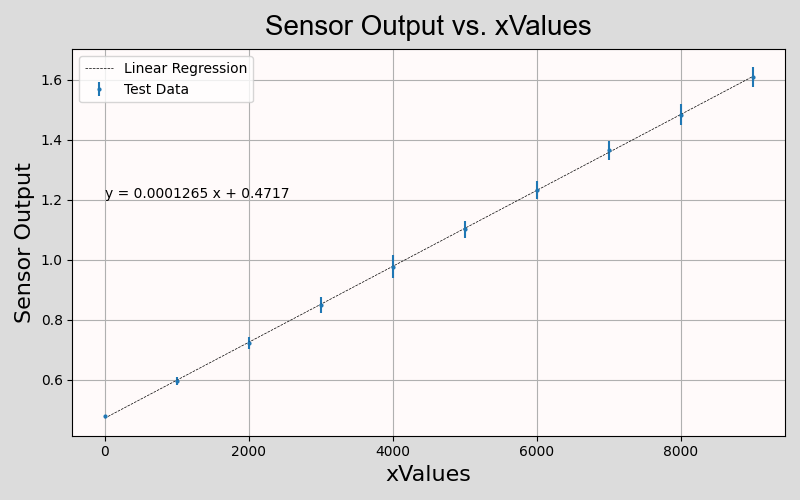
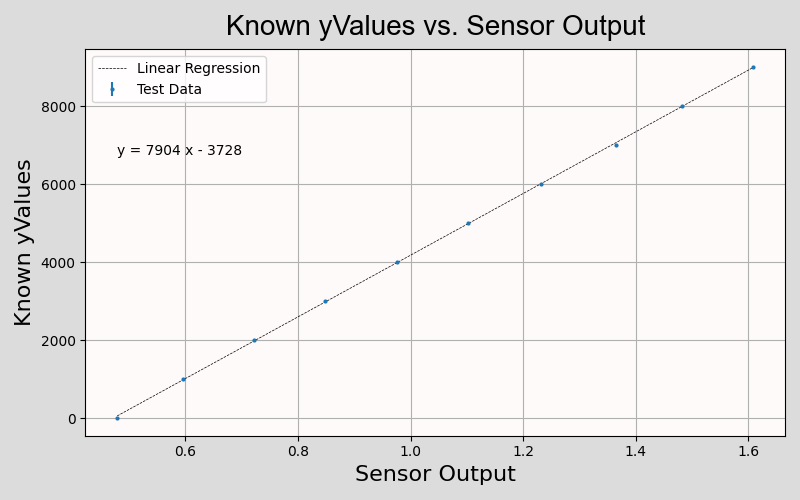
In order to calibrate, program was given y and sensed x. To get the desired transfer function, needed to inverse the function output.

diff --git a/Read_Sensor.py b/Read_Sensor.py
@@ -5,7 +5,7 @@ import numpy as np
 from openpyxl import load_workbook
 
 # Input Parameters
-xValue = '500' # Input your known x-value (i.e. pressure, weight, temperature, etc.)
+yValue = '22' # Input your known x-value (i.e. pressure, weight, temperature, etc.)
 avename = 'Calibration_Values' # Existing excel file name where value will be logged
 Record_Length = 1000 # Number of data points taken (sample rate = .004s), then averaged, for sensor output
 #changechange
@@ -21,7 +21,7 @@ if __name__ == "__main__":
       (info[0], info[1], info[2], ljm.numberToIP(info[3]), info[4], info[5]))
 
     # Setup and call eReadName to read from AIN0 on the LabJack.
-    sig_psi = "AIN2"
+    sigLocation = "AIN2"
 
     # List variables
     start = float(time.time())
@@ -33,8 +33,8 @@ if __name__ == "__main__":
     #Average .004sec per data point
     #2500 = 10sec
     while len(t_stamp_act) < Record_Length:
-        sig = ljm.eReadName(handle, sig_psi)
-        if sig >= 0 and sig <=3:
+        sig = ljm.eReadName(handle, sigLocation)
+        if sig >= -100 and sig <=100:
             t_stamp_act.append(time.time())
             v_out.append(sig)
             #print(sig)
@@ -53,7 +53,7 @@ if __name__ == "__main__":
     data_r = list(zip(t_stamp,v_out))
 
     # Write full dataframe to csv file
-    filename = xValue + '.csv'
+    filename = yValue + '.csv'
     file = open(filename, 'w', newline='')
     wrapper = csv.writer(file, dialect='excel')
     for line in data_r:
@@ -64,7 +64,7 @@ if __name__ == "__main__":
     sensorOutputSTD = float(np.std(v_out[1:]))
 
     # Write Data Averages and Standard Deviations to new line in Averages Excel Doc
-    data_ave = [[xValue, sensorOutputAverage, sensorOutputSTD]]
+    data_ave = [[yValue, sensorOutputAverage, sensorOutputSTD]]
     wb = load_workbook(ave_filename)
     # Select First Worksheet
     ws = wb.worksheets[0]

diff --git a/Transfer_Function.py b/Transfer_Function.py
@@ -18,9 +18,9 @@ xval = []
 yval = []
 stdval = []
 for cell in ws['A']:
-    xval.append(cell.value)
-for cell in ws['B']:
     yval.append(cell.value)
+for cell in ws['B']:
+    xval.append(cell.value)
 for cell in ws['C']:
     stdval.append(cell.value)
 
@@ -53,11 +53,11 @@ fig, ax = plt.subplots(facecolor='gainsboro', figsize=(8, 5))
 # 2) Plot Area Color:
 ax.set_facecolor('snow')
 # 3) Title:
-ax.set_title('Sensor Output vs. xValues', **title_font)
+ax.set_title('Known yValues vs. Sensor Output', **title_font)
 # 4) X-axis Label:
-ax.set_xlabel('xValues', fontsize=16, color='black')
+ax.set_xlabel('Sensor Output', fontsize=16, color='black')
 # 5) Y-axis Label:
-ax.set_ylabel('Sensor Output', fontsize=16, color='black')
+ax.set_ylabel('Known yValues', fontsize=16, color='black')
 # 6) 1st Data Series with Error Bars:
 ax.errorbar(x,y, yerr = std, fmt = 'o', markersize = 2)
 #ax.plot(x,y,marker = 'x', markersize = 5, linestyle = 'None')
